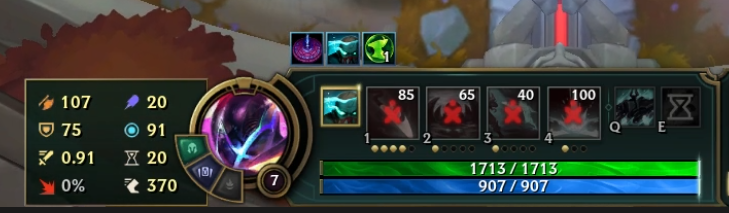
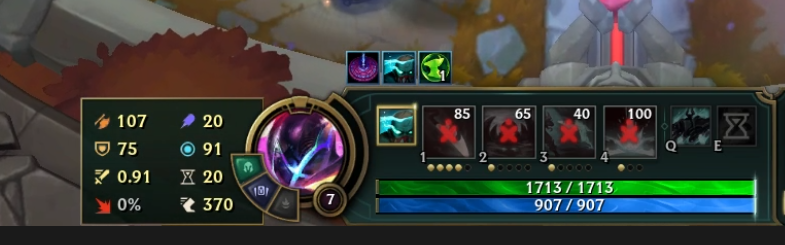
Find panels surrounded by game scene; keep the right border out of reads
When the left-edge detector fails (a short collapsed panel with scene
around it), try each long vertical gold line as the left border at a
few size guesses; the rows then give the real scale. Right-column value
boxes stop at 94% of the panel width so its light right border can't
swamp dim text. Replaces the collapsed example pair with the user's
clearer screenshots: 60/60 exact.

diff --git a/src/core/detect.ts b/src/core/detect.ts
@@ -477,31 +477,68 @@ export function detectAnvilCounter(
 }
 
 /**
- * Finds the stat panel: its left border from the gold frame, then its rows and top/bottom
- * borders from the text (see locatePanel). Handles borders cut off by the screenshot and a
- * collapsed top half; falls back to the border-only detection when no rows are found.
+ * Columns that look like the panel's gold left border: the longest vertical runs of gold or
+ * white pixels in the left half of the image, leftmost first.
+ */
+function goldBorderCandidates(image: ImageData): number[] {
+  const runs: number[] = [];
+  for (let x = 0; x < Math.floor(image.width * 0.5); x += 1) {
+    let run = 0;
+    let longest = 0;
+    for (let y = 0; y < image.height; y += 1) {
+      const index = (y * image.width + x) * 4;
+      const red = image.data[index]!;
+      const green = image.data[index + 1]!;
+      const blue = image.data[index + 2]!;
+      const isGold = red > 85 && green > 60 && red > green * 1.02 && green > blue * 1.04;
+      const isWhite = red > 165 && green > 155 && blue > 135;
+      run = isGold || isWhite ? run + 1 : 0;
+      longest = Math.max(longest, run);
+    }
+    runs.push(longest);
+  }
+  const strongest = Math.max(0, ...runs);
+  const candidates: number[] = [];
+  runs.forEach((run, x) => {
+    if (run < Math.max(15, strongest * 0.4)) return;
+    if (candidates.length > 0 && x - candidates[candidates.length - 1]! <= 3) return;
+    candidates.push(x);
+  });
+  return candidates;
+}
+
+/** Panel widths to try when nothing else gives the scale; the rows then give the real width. */
+const PANEL_WIDTH_GUESSES = [110, 150, 190, 240, 300, 380];
+
+/**
+ * Finds the stat panel. First tries the left-edge detector (good for tight crops of the HUD);
+ * when that fails, as with a short collapsed panel surrounded by game scene, tries each gold
+ * vertical line as the left border. Either way the rows, scale and top/bottom borders come from
+ * the text (see locatePanel), which handles cut-off borders and a collapsed top half.
  */
 export function detectStatPanel(image: ImageData): CropDetection {
   const window = detectStatWindow(image);
-  if (!window.edges) return window;
-  const location = locatePanel(image, {
-    x: window.edges.left,
-    y: 0,
-    width: window.edges.right - window.edges.left,
-    height: image.height,
-  });
-  if (!location) return window;
-  const { rect } = location;
-  return {
-    rect: clampCropRect({
-      x: rect.x / image.width,
-      y: rect.y / image.height,
-      width: rect.width / image.width,
-      height: rect.height / image.height,
-    }),
-    // Four evenly spaced text rows at the panel's scale are strong evidence on their own.
-    confidence: Math.max(window.confidence, 0.85),
-    method: location.collapsed ? "collapsed-panel" : "left-panel",
-    edges: { left: rect.x, right: rect.x + rect.width, top: rect.y, bottom: rect.y + rect.height },
-  };
+  const attempts: Array<{ left: number; width: number }> = [];
+  if (window.edges) attempts.push({ left: window.edges.left, width: window.edges.right - window.edges.left });
+  for (const left of goldBorderCandidates(image)) {
+    for (const width of PANEL_WIDTH_GUESSES) attempts.push({ left: Math.max(0, left - 1), width });
+  }
+  for (const { left, width } of attempts) {
+    const location = locatePanel(image, { x: left, y: 0, width, height: image.height });
+    if (!location) continue;
+    const { rect } = location;
+    return {
+      rect: clampCropRect({
+        x: rect.x / image.width,
+        y: rect.y / image.height,
+        width: rect.width / image.width,
+        height: rect.height / image.height,
+      }),
+      // Four evenly spaced text rows at the panel's scale are strong evidence on their own.
+      confidence: Math.max(window.confidence, 0.85),
+      method: location.collapsed ? "collapsed-panel" : "left-panel",
+      edges: { left: rect.x, right: rect.x + rect.width, top: rect.y, bottom: rect.y + rect.height },
+    };
+  }
+  return window;
 }

diff --git a/src/core/ocr-layout.ts b/src/core/ocr-layout.ts
@@ -20,23 +20,24 @@ export interface PanelValueRegion {
   height: number;
 }
 
+// Right-column boxes stop at 94% of the panel width so the panel's light right border stays out.
 const VALUE_BOXES: Record<string, Omit<PanelValueRegion, "id" | "width" | "height"> & {
   width: number;
   height: number;
 }> = {
-  healAndShieldPower: { x: 0.64, y: 0.012, width: 0.35, height: 0.095 },
+  healAndShieldPower: { x: 0.64, y: 0.012, width: 0.3, height: 0.095 },
   armorPenetration: { x: 0.18, y: 0.125, width: 0.35, height: 0.095 },
-  magicPenetration: { x: 0.64, y: 0.125, width: 0.35, height: 0.095 },
-  omnivamp: { x: 0.64, y: 0.238, width: 0.35, height: 0.095 },
-  tenacity: { x: 0.64, y: 0.352, width: 0.35, height: 0.095 },
+  magicPenetration: { x: 0.64, y: 0.125, width: 0.3, height: 0.095 },
+  omnivamp: { x: 0.64, y: 0.238, width: 0.3, height: 0.095 },
+  tenacity: { x: 0.64, y: 0.352, width: 0.3, height: 0.095 },
   attackDamage: { x: 0.18, y: 0.526, width: 0.35, height: 0.095 },
-  abilityPower: { x: 0.64, y: 0.526, width: 0.35, height: 0.095 },
+  abilityPower: { x: 0.64, y: 0.526, width: 0.3, height: 0.095 },
   armor: { x: 0.18, y: 0.636, width: 0.35, height: 0.095 },
-  magicResistance: { x: 0.64, y: 0.636, width: 0.35, height: 0.095 },
+  magicResistance: { x: 0.64, y: 0.636, width: 0.3, height: 0.095 },
   attackSpeed: { x: 0.18, y: 0.752, width: 0.35, height: 0.095 },
-  abilityHaste: { x: 0.64, y: 0.752, width: 0.35, height: 0.095 },
+  abilityHaste: { x: 0.64, y: 0.752, width: 0.3, height: 0.095 },
   criticalStrikeChance: { x: 0.18, y: 0.868, width: 0.35, height: 0.095 },
-  movementSpeed: { x: 0.64, y: 0.868, width: 0.35, height: 0.095 },
+  movementSpeed: { x: 0.64, y: 0.868, width: 0.3, height: 0.095 },
 };
 
 export const PANEL_STAT_CELLS = [

diff --git a/src/core/ocr-layout.test.ts b/src/core/ocr-layout.test.ts
@@ -34,7 +34,7 @@ describe("fixed stat panel layout", () => {
       id: "healAndShieldPower",
       x: 489,
       y: 12,
-      width: 267,
+      width: 229,
       height: 97,
     });
     expect(regions.find(({ id }) => id === "attackDamage")).toEqual({
